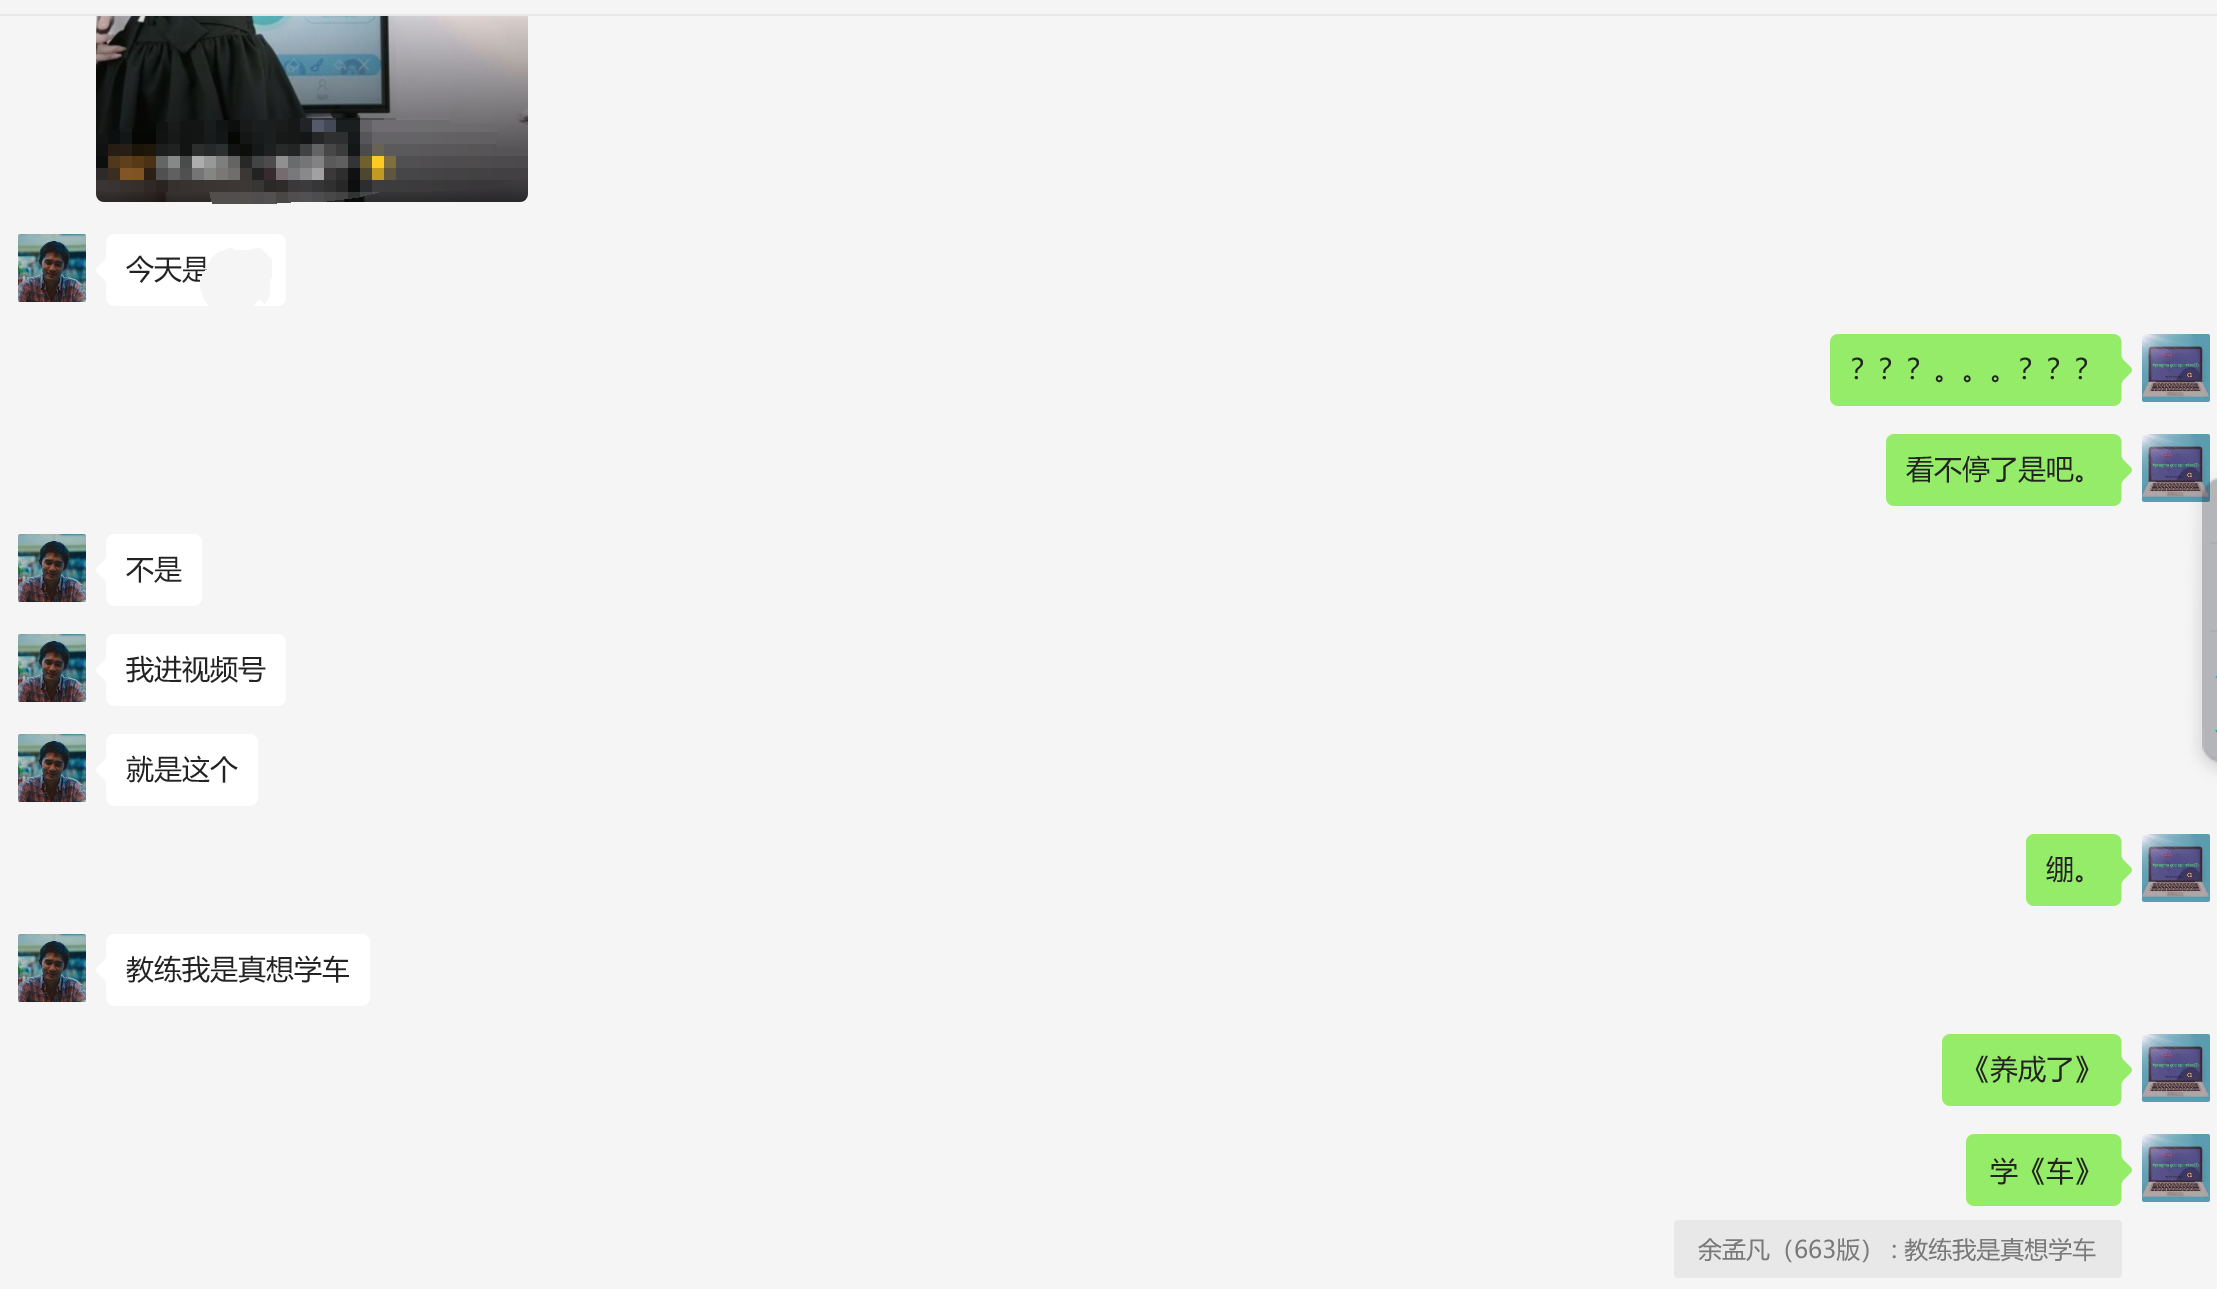
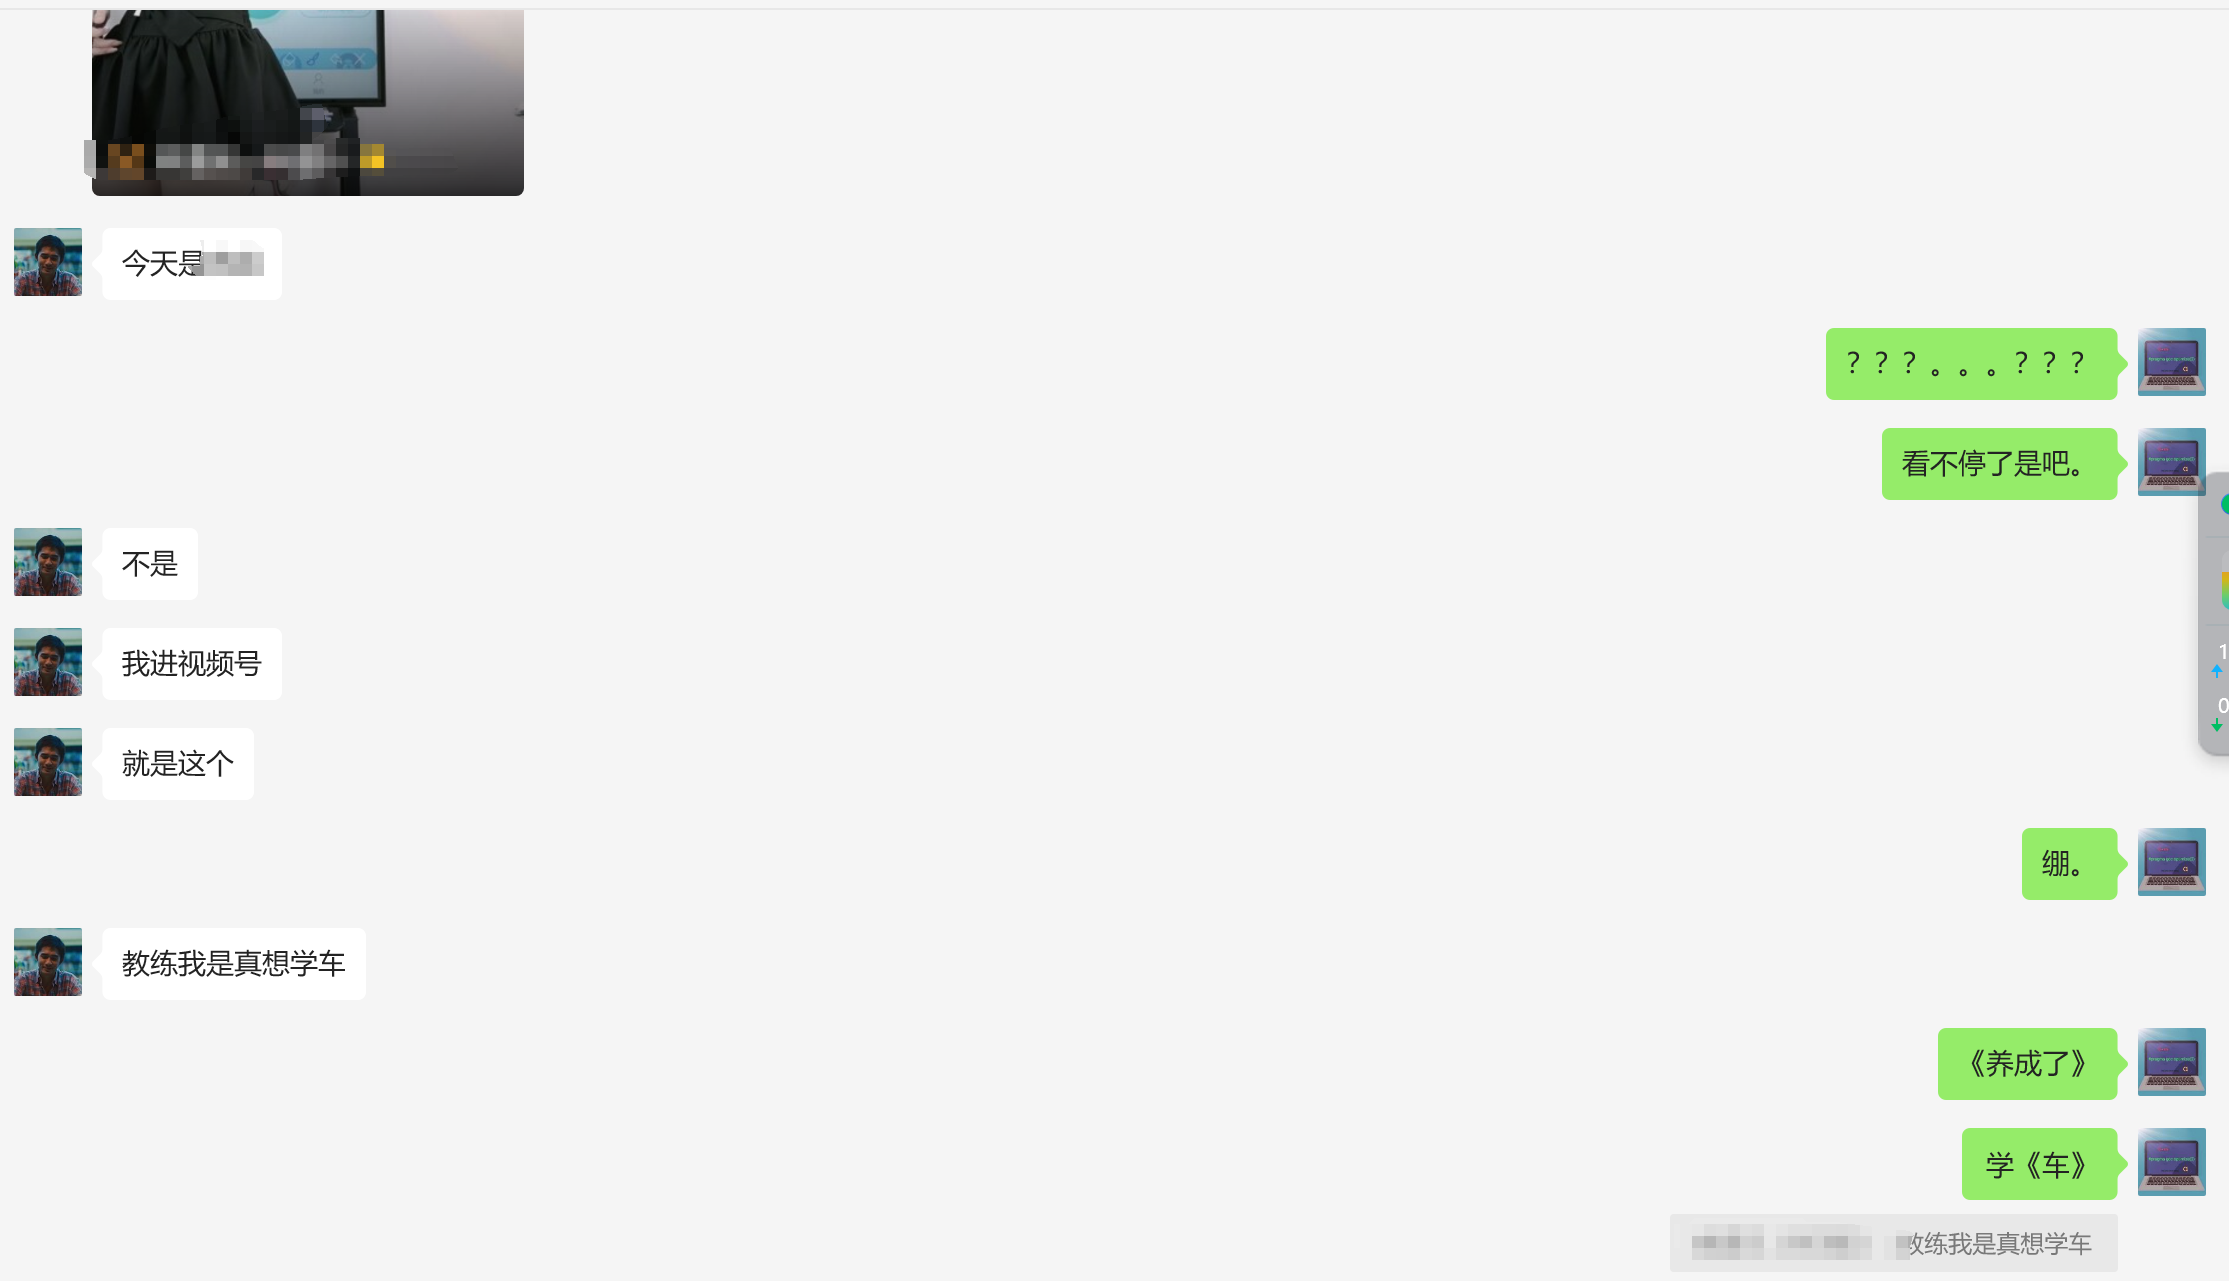
Site updated: 2024-07-04 22:23:03

diff --git a/2024/07/02/2024暑假-杂记/index.html b/2024/07/02/2024暑假-杂记/index.html
@@ -19,9 +19,9 @@
 <meta property="og:image" content="https://cdn.luogu.com.cn/upload/image_hosting/ja4v5dt1.png">
 <meta property="og:image" content="https://cdn.luogu.com.cn/upload/image_hosting/uobfy1s1.png">
 <meta property="og:image" content="https://cdn.luogu.com.cn/upload/image_hosting/40w06kd3.png">
-<meta property="og:image" content="https://cdn.luogu.com.cn/upload/image_hosting/ho2toysa.png">
+<meta property="og:image" content="https://cdn.luogu.com.cn/upload/image_hosting/xle1g3g8.png">
 <meta property="article:published_time" content="2024-07-02T15:07:43.000Z">
-<meta property="article:modified_time" content="2024-07-04T14:20:21.918Z">
+<meta property="article:modified_time" content="2024-07-04T14:22:57.076Z">
 <meta property="article:author" content="John Doe">
 <meta name="twitter:card" content="summary">
 <meta name="twitter:image" content="https://cdn.luogu.com.cn/upload/image_hosting/oav25pry.png">
@@ -208,7 +208,7 @@
 <p>  然后发现一早上的满地乱爬+前几天的俯卧撑遗症基本把我的关节干坏了。哪儿哪儿都疼。遂做了一组就罢了。</p>
 </li>
 <li><p>嗯，得抓紧时间学科目一了。说到科目一。</p>
-<p>  <img src="https://cdn.luogu.com.cn/upload/image_hosting/ho2toysa.png"></p>
+<p>  <img src="https://cdn.luogu.com.cn/upload/image_hosting/xle1g3g8.png"></p>
 <p>  <del>怪不得ymf最近心情那么好</del></p>
 </li>
 </ul>
